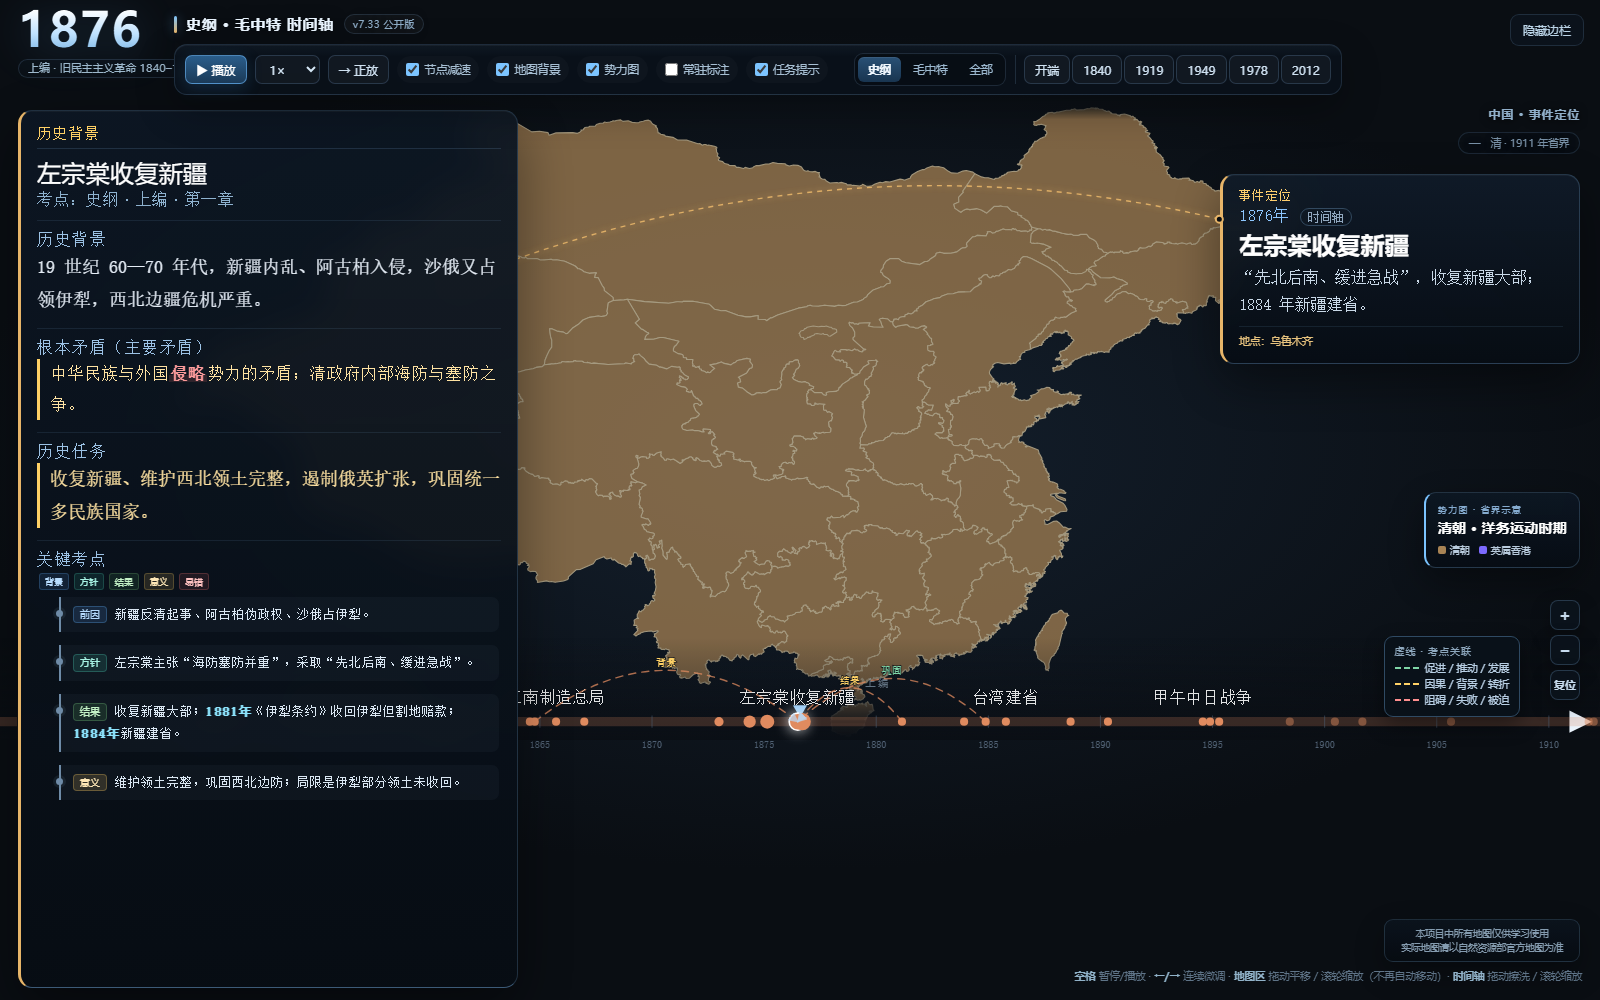
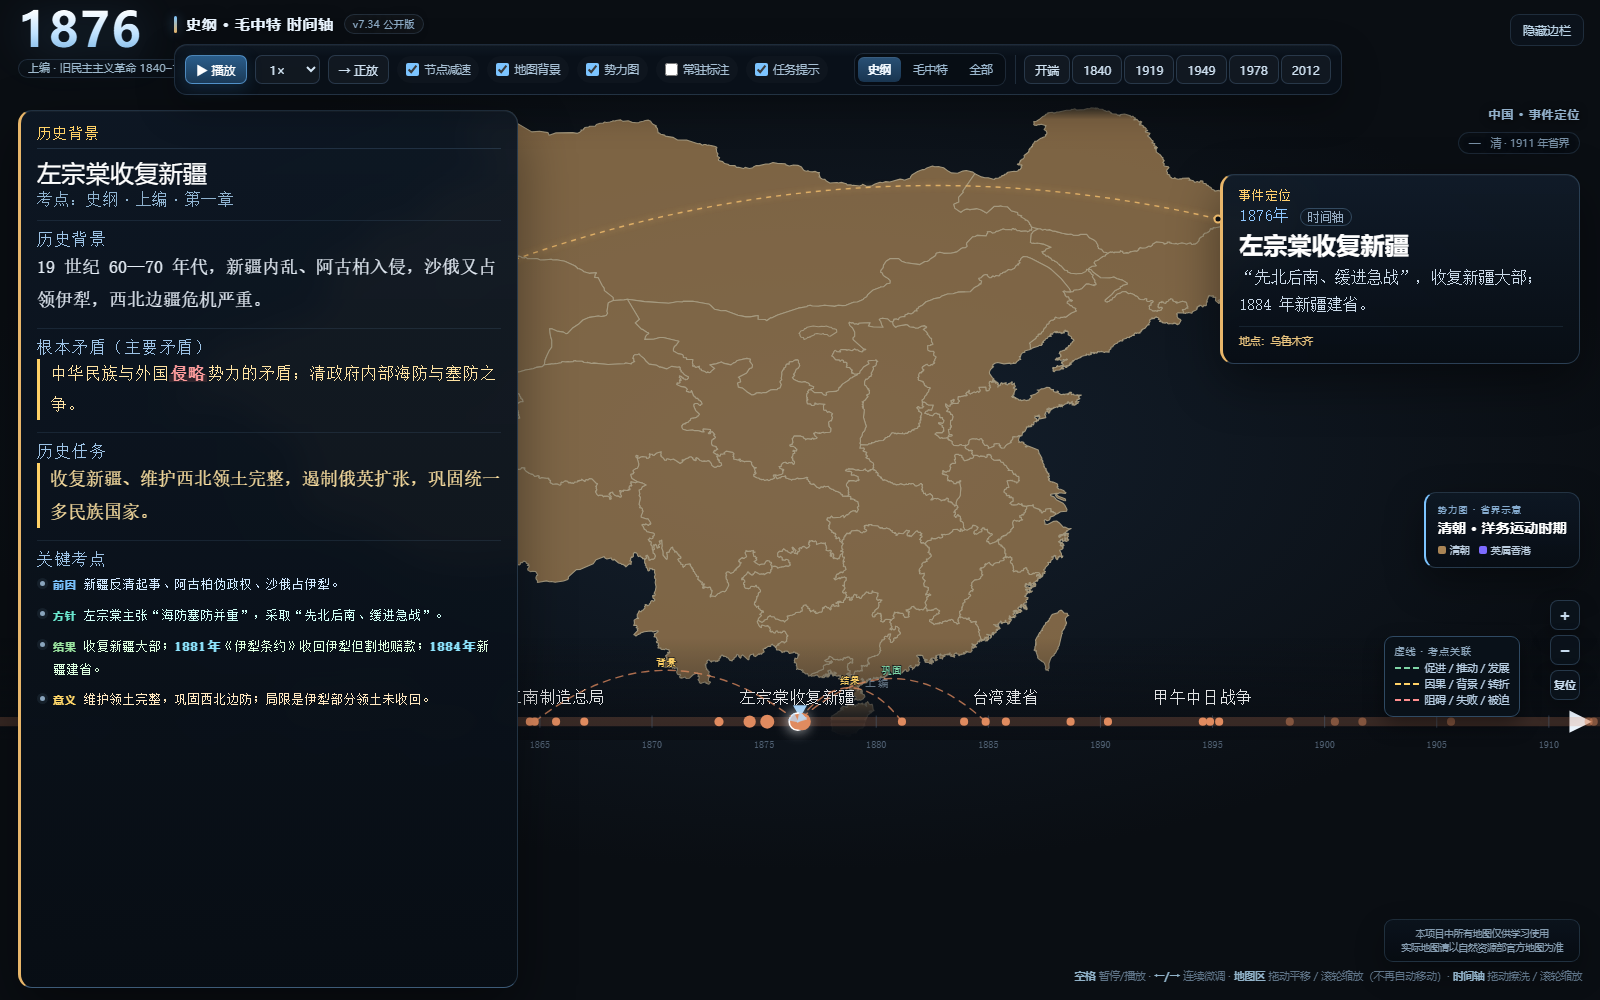
Release v7.34: plain colored key-point list

Changed region(s): [[0.0312, 0.558, 0.3125, 0.744], [0.0312, 0.775, 0.1562, 0.806], [0.1875, 0.775, 0.2812, 0.806]]

diff --git a/index.html b/index.html
@@ -3,7 +3,7 @@
 <head>
 <meta charset="utf-8">
 <meta name="viewport" content="width=device-width, initial-scale=1">
-<title>史纲 · 毛中特 时间轴（v7.33 公开版）</title>
+<title>史纲 · 毛中特 时间轴（v7.34 公开版）</title>
 <style>
   :root{ --bg1:#0a0e13; --bg2:#101823; --text:#e9f0f8; --muted:#8fa2b6; --line:#22303f; --accent:#7cc4ff; }
   *{box-sizing:border-box}
@@ -726,12 +726,55 @@
   .hl2{color:#8fe6ff;font-weight:700;background:linear-gradient(transparent 60%,rgba(105,200,255,.16) 60%);padding:0 1px}
   .hl3{color:#ff9d9d;font-weight:700;background:linear-gradient(transparent 60%,rgba(255,120,120,.14) 60%);padding:0 1px}
 </style>
+<style id="keypoint-list-style-v2">
+  /* 关键考点：去掉胶囊和卡片，只保留分条列点 + 标题/正文分色 */
+  #questPanel .kpLegend{display:none !important}
+  #questPanel .qpBody{padding:0 2px 4px}
+  #questPanel .qpSideList{list-style:none !important;padding-left:0 !important;margin:3px 0 0 !important;display:block !important}
+  #questPanel .qpSideList li.kp{
+    position:relative !important;display:block !important;
+    margin:2px 0 !important;padding:3px 0 3px 14px !important;
+    border:0 !important;border-left:0 !important;border-radius:0 !important;
+    background:none !important;box-shadow:none !important;
+    line-height:1.72 !important;font-size:13.3px !important;
+  }
+  #questPanel .qpSideList li.kp::before{
+    content:"" !important;position:absolute !important;left:1px !important;top:.72em !important;
+    width:5px !important;height:5px !important;border-radius:50% !important;background:#8aa5bd !important;
+  }
+  #questPanel .kpTag{display:none !important}
+  #questPanel .kpTitle{
+    display:inline !important;margin-right:6px !important;
+    font-family:"Microsoft YaHei",sans-serif !important;font-size:11px !important;
+    font-weight:700 !important;letter-spacing:.8px !important;white-space:nowrap !important;
+  }
+  #questPanel .kpText{display:inline !important}
+  #questPanel .kp.cause::before{background:#69b7ff !important}
+  #questPanel .kp.cause .kpTitle{color:#7cc4ff !important}
+  #questPanel .kp.cause .kpText{color:#cfe7ff !important}
+  #questPanel .kp.policy::before{background:#56e0c2 !important}
+  #questPanel .kp.policy .kpTitle{color:#6be8cf !important}
+  #questPanel .kp.policy .kpText{color:#d0fff7 !important}
+  #questPanel .kp.result::before{background:#8bdc91 !important}
+  #questPanel .kp.result .kpTitle{color:#9ce6a1 !important}
+  #questPanel .kp.result .kpText{color:#ddffdf !important}
+  #questPanel .kp.meaning::before{background:#ffd166 !important}
+  #questPanel .kp.meaning .kpTitle{color:#ffd76a !important}
+  #questPanel .kp.meaning .kpText{color:#ffe8bf !important}
+  #questPanel .kp.error::before{background:#ff8585 !important}
+  #questPanel .kp.error .kpTitle{color:#ff9a9a !important}
+  #questPanel .kp.error .kpText{color:#ffdada !important}
+  #questPanel .kp.meta::before{background:#c4a7ff !important}
+  #questPanel .kp.meta .kpTitle{color:#d3bdff !important}
+  #questPanel .kp.meta .kpText{color:#e6dcff !important}
+  #questPanel .kpDate{color:#8fe6ff !important;font-weight:700 !important}
+</style>
 </head>
 <body>
 <svg id="svg" xmlns="http://www.w3.org/2000/svg"></svg>
 
 <div id="topLeft">
-  <div id="title">史纲 · 毛中特 时间轴 <small>v7.33 公开版</small></div>
+  <div id="title">史纲 · 毛中特 时间轴 <small>v7.34 公开版</small></div>
   <button id="topToggle">隐藏边栏</button>
   <div id="controls">
     <button id="playBtn" class="pri">▶ 播放</button>
@@ -3181,7 +3224,7 @@ function keyPointHTML(x){
   let label = '', body = s, cls = 'neutral';
   if (m){ label = m[1]; body = s.slice(m[0].length); cls = tagMap[label] || 'neutral'; }
   let text = rich(body).replace(/(\d{4})\s*年/g, '<span class="kpDate">$1年</span>');
-  return '<li class="kp ' + cls + '">' + (label ? '<span class="kpTag">' + label + '</span>' : '') + '<span class="kpText">' + text + '</span></li>';
+  return '<li class="kp ' + cls + '">' + (label ? '<span class="kpTitle">' + label + '</span>' : '') + '<span class="kpText">' + text + '</span></li>';
 }
 function renderQuest(){
   const panel = document.getElementById('questPanel');
@@ -3195,8 +3238,7 @@ function renderQuest(){
   document.getElementById('qpBackground').innerHTML = rich(tasks.background);
   document.getElementById('qpContradiction').innerHTML = rich(tasks.contradiction);
   document.getElementById('qpTask').innerHTML = rich(tasks.task) + (tasks.mainFromPeriod ? ' <span class="qpPeriodNote">（按时期概括）</span>' : '');
-  const kpLegend = '<div class="kpLegend"><span class="cause">背景</span><span class="policy">方针</span><span class="result">结果</span><span class="meaning">意义</span><span class="error">易错</span></div>';
-  document.getElementById('qpBody').innerHTML = kpLegend + '<ul class="qpSideList">' +
+  document.getElementById('qpBody').innerHTML = '<ul class="qpSideList">' +
     tasks.sides.map(keyPointHTML).join('') + '</ul>';
   document.getElementById('questPanel').classList.remove('hidden');
 }

diff --git a/README.md b/README.md
@@ -1,4 +1,4 @@
-# 史纲 · 毛中特 流光时间轴（v7.33）
+# 史纲 · 毛中特 流光时间轴（v7.34）
 
 2027 考研政治复习工具：**中国近现代史纲要 + 毛中特** 时间轴、历史地图、势力图与考点资料。
 
@@ -35,7 +35,7 @@ GitHub 打不开时，可以使用国内网盘备份：
 - 关键地点、路线、占领信息：**悬停圆点或路线查看名称**，不常驻文字遮挡地图；
 - 事件定位：右侧事件卡 + 按阵营着色虚线（中共红、国民党蓝、外敌灰、中性金）+ 单点/多地点端点，地址只在悬停时显示；
 - 左侧历史任务栏：历史背景、根本矛盾、历史任务、关键考点；
-- 关键考点按“背景=蓝、方针=青、结果=绿、意义=金、易错=红”着色，日期和关键词同步高亮；
+- 关键考点分条列点，标题和正文按“背景=蓝、方针=青、结果=绿、意义=金、易错=红”分色；日期和关键词同步高亮；
 - 长征、北伐、秋收、三大战役、渡江路线；
 - 三大战役支持锦州/徐州/北平三地点同时连线；
 - 毛泽东人生轨迹：韶山—长沙—上海—井冈山—遵义—延安—西柏坡—北京；
